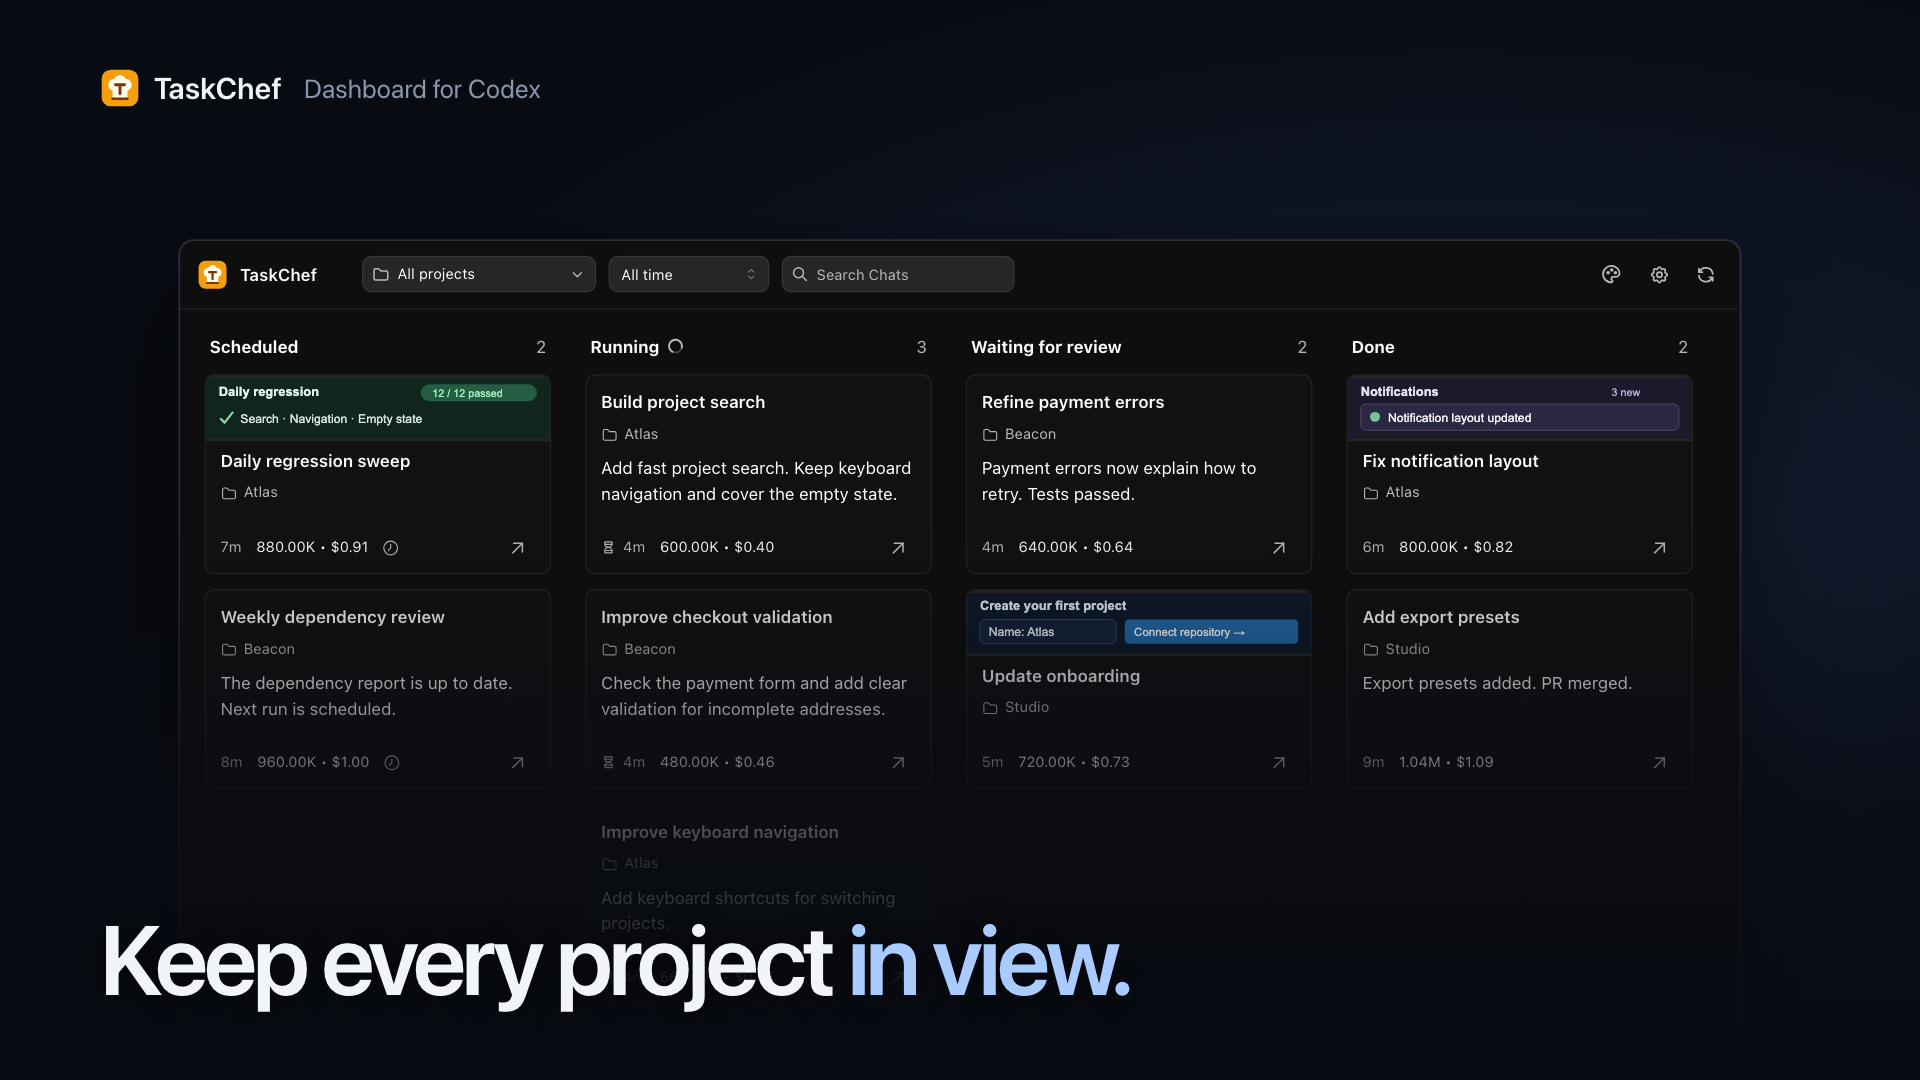
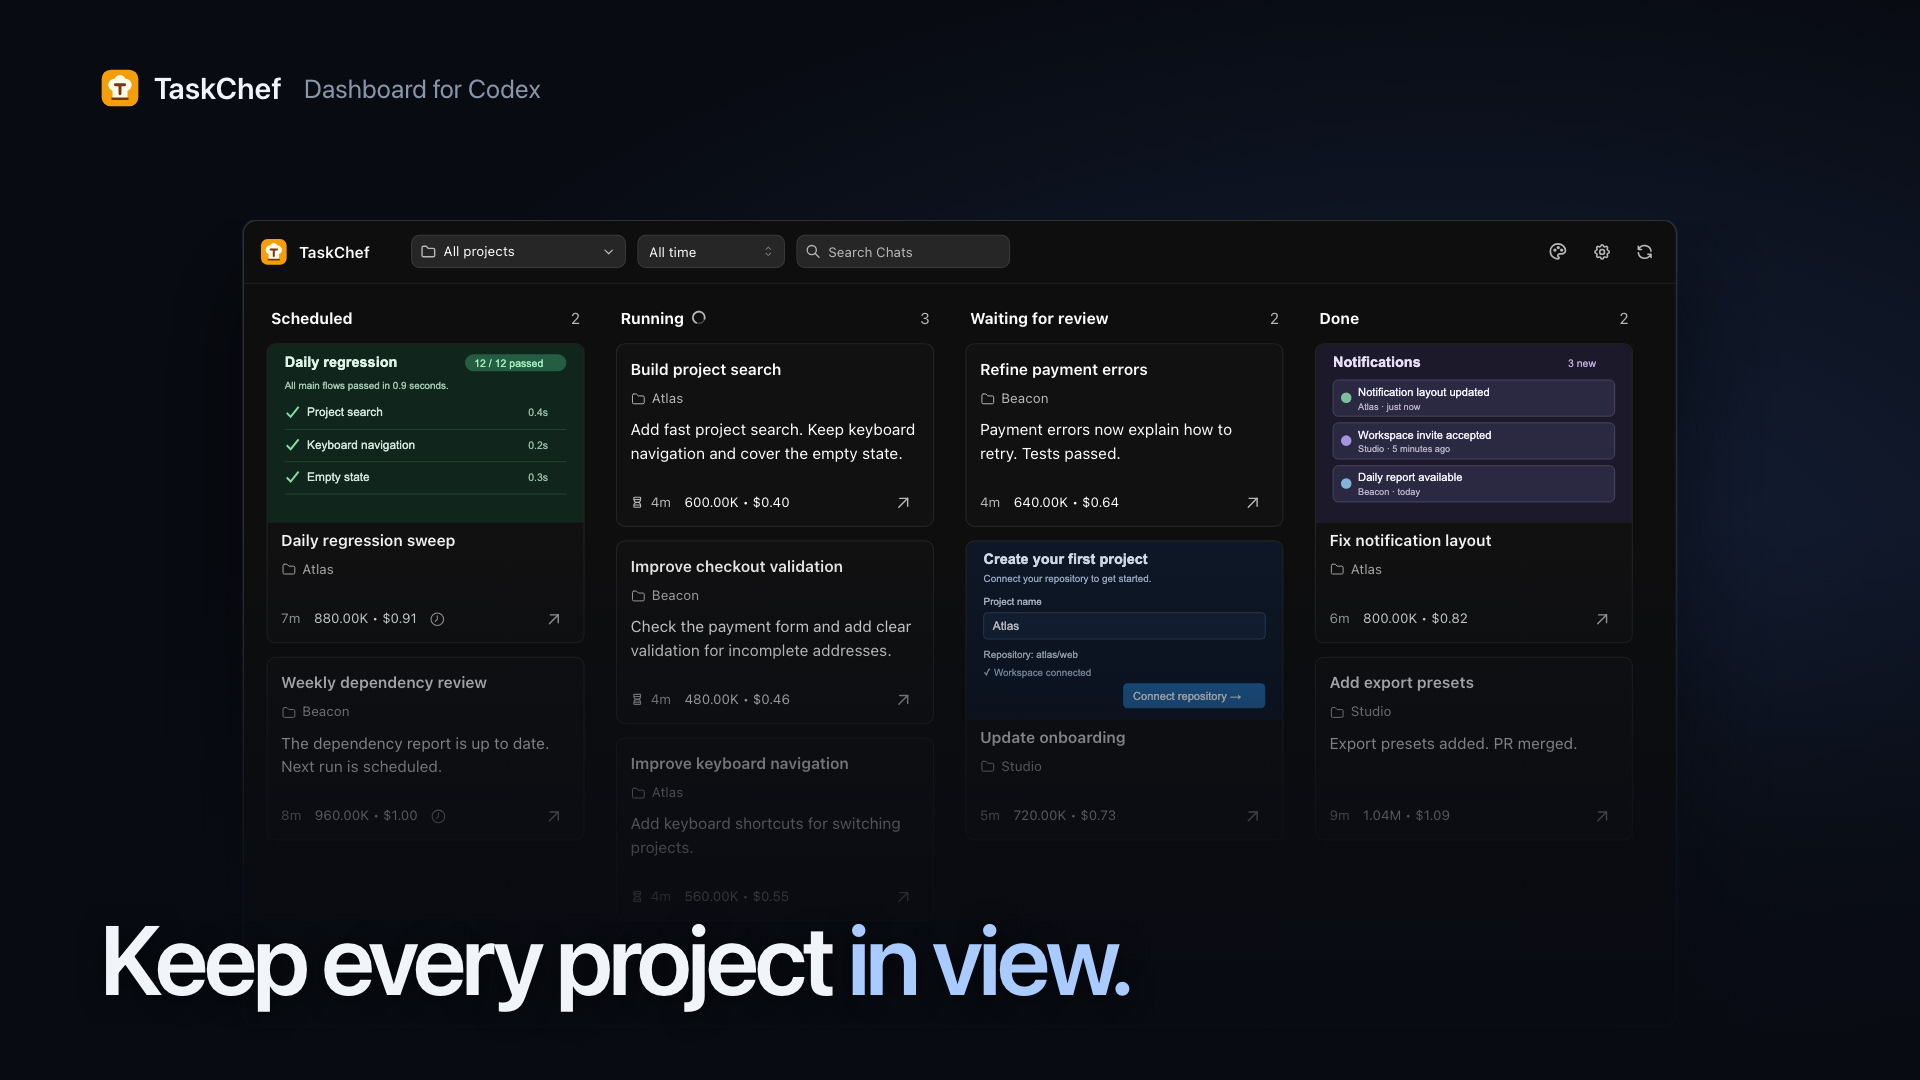
chore(video): show widescreen covers and hold final theme

diff --git a/video/Launch.tsx b/video/Launch.tsx
@@ -26,15 +26,15 @@ export function Launch() {
   const elapsed = frame / fps;
   // Cut the opening by 20 frames and the overview pause by 45 frames.
   const time = elapsed + (frame >= 115 ? 65 / 30 : 20 / 30);
-  const themeScene = frame >= 865 && frame < 1000;
+  const themeScene = frame >= 865 && frame < 1030;
   const themeTime = (frame - 865) / fps;
   const themeId = !themeScene || themeTime < 1.8 || themeTime >= 4.05 ? 'codex' : themeTime < 2.55 ? 'chatgpt' : themeTime < 3.3 ? 'catppuccin' : 'dracula';
   const appearance = 'dark';
   // One camera and one board preserve spatial continuity across chapters.
   const times = [2, 6.7, 7.6, 11.7, 12.7, 15.7, 17.1, 18.2, 19, 20.9, 22.2, 25.8, 27, 28, 28.7, 29.2, 30, 31];
-  const scales = [1.22, 1.22, 3, 3, 2.4, 2.4, 1.22, 1.22, 2.3, 2.3, 2.4, 2.4, 1.22, 1.22, 2.8, 2.8, 1.22, 1.22];
-  const xs = [179, 179, -470, -470, -575, -575, 179, 179, -1157, -1157, -1325, -1325, 179, 179, 3, 3, 179, 179];
-  const ys = [240, 240, 30, 30, 80, 80, 240, 240, -422, -422, 80, 80, 240, 240, 220, 220, 240, 240];
+  const scales = [1.12, 1.12, 3, 3, 2.4, 2.4, 1.12, 1.12, 2.3, 2.3, 2.4, 2.4, 1.12, 1.12, 2.8, 2.8, 1.12, 1.12];
+  const xs = [243, 243, -470, -470, -575, -575, 243, 243, -1157, -1157, -1325, -1325, 243, 243, 3, 3, 243, 243];
+  const ys = [220, 220, 30, 30, 80, 80, 220, 220, -505, -505, 80, 80, 220, 220, 220, 220, 220, 220];
   const pose = (values: number[]) => interpolate(time, times, values, { ...clamp, easing: ease });
   const phase = time >= 23.8 ? 'merged' : time >= 14 ? 'review' : 'running';
   const move = phase === 'review' && time < 14.7 ? interpolate(time, [14, 14.7], [0, 1], { ...clamp, easing: ease })
@@ -47,17 +47,17 @@ export function Launch() {
   const detail = time >= 18.2 && time < 20.9;
   const usageRow = time < 19.9 ? 1 : 2;
   return <AbsoluteFill className="film opening-study launch-film" style={themeVariables(visualTheme('codex', 'dark'), 'dark') as CSSProperties}>
-    <Audio name="Tech House vibes — Mixkit" src={staticFile('tech-house-vibes.mp3')} trimBefore={Math.round(1.52 * fps)} durationInFrames={1090} premountFor={fps}
-      volume={interpolate(elapsed, [0, .1, 35.1, 1090 / fps], [0, .8, .8, 0], clamp)} />
+    <Audio name="Tech House vibes — Mixkit" src={staticFile('tech-house-vibes.mp3')} trimBefore={Math.round(1.52 * fps)} durationInFrames={1120} premountFor={fps}
+      volume={interpolate(elapsed, [0, .1, 36.1, 1120 / fps], [0, .8, .8, 0], clamp)} />
     <div className="opening-halo" style={{ translate: `${Math.sin(time * .7) * 90}px ${Math.cos(time * .5) * 35}px` }} />
-    {frame >= 40 && frame < 1000 && <div className="opening-brand"><Img src={staticFile('taskchef-dark.svg')} alt="" />TaskChef <span>Dashboard for Codex</span></div>}
+    {frame >= 40 && frame < 1030 && <div className="opening-brand"><Img src={staticFile('taskchef-dark.svg')} alt="" />TaskChef <span>Dashboard for Codex</span></div>}
     <Sequence name="Product identity" from={0} durationInFrames={40} premountFor={fps}>
       <div className="opening-type"><div className="opening-identity"><div><Img src={staticFile('taskchef-dark.svg')} alt="" /><span>TaskChef</span></div><p>Dashboard for Codex</p></div></div>
-      <div className="opening-rails" style={{ rotate: '-12deg', translate: `${time * 180 - 240}px 0` }}><i /><i /><i /></div>
+      <div className="opening-rails" style={{ rotate: '-12deg', translate: `${time * 180 - 220}px 0` }}><i /><i /><i /></div>
       <FloatingChats time={elapsed} heroUsage={usage(600_000, .4)} />
     </Sequence>
-    {frame >= 40 && frame < 1000 && <div className="opening-board-mask">
-      <div className="opening-board-stage" inert style={{ left: themeScene ? interpolate(themeTime, [0, 1.5, 2, 4, 4.5], [179, 179, -160, -160, 179], { ...clamp, easing: ease }) : pose(xs), top: (themeScene ? interpolate(themeTime, [0, 1.5, 2, 4, 4.5], [240, 240, 200, 200, 240], { ...clamp, easing: ease }) : pose(ys)) - 220, scale: themeScene ? interpolate(themeTime, [0, 1.5, 2, 4, 4.5], [1.22, 1.22, 1.6, 1.6, 1.22], { ...clamp, easing: ease }) : pose(scales) }}>
+    {frame >= 40 && frame < 1030 && <div className="opening-board-mask">
+      <div className="opening-board-stage" inert style={{ left: themeScene ? interpolate(themeTime, [0, 1.5, 2, 5, 5.5], [243, 243, -160, -160, 243], { ...clamp, easing: ease }) : pose(xs), top: (themeScene ? interpolate(themeTime, [0, 1.5, 2, 5, 5.5], [220, 220, 200, 200, 220], { ...clamp, easing: ease }) : pose(ys)) - 220, scale: themeScene ? interpolate(themeTime, [0, 1.5, 2, 5, 5.5], [1.12, 1.12, 1.6, 1.6, 1.12], { ...clamp, easing: ease }) : pose(scales) }}>
         <ProductBoard themeId={themeId} appearance={appearance} showThemePanel={themeScene} phase={phase} moveProgress={move} project={selected ? 'atlas' : ''} heroUsage={phase === 'running' ? liveUsage : undefined} filterProgress={selected ? filter : undefined} highlightProject={time >= 28 && time < 29.3}>
           <style>{`.launch-film .film-product .mantine-Modal-content { max-height: 505px; }
             .launch-film .taskchef-detail-usage tbody tr:nth-child(${usageRow}) { background: #8cc9ff20; }
@@ -73,7 +73,7 @@ export function Launch() {
     <Sequence name="Merged PR moves to Done" from={565} durationInFrames={2.5 * fps} premountFor={fps}><ChapterTitle>Merged. <span>Done.</span></ChapterTitle></Sequence>
     <Sequence name="Project filtering" from={715} durationInFrames={2.5 * fps} premountFor={fps}><ChapterTitle>Focus on <span>one project.</span></ChapterTitle></Sequence>
     <Sequence name="Theme switching" from={865} durationInFrames={2.5 * fps} premountFor={fps}><ChapterTitle>Choose <span>your theme.</span></ChapterTitle></Sequence>
-    <Sequence name="TaskChef closing" from={1000} durationInFrames={3 * fps} premountFor={fps}>
+    <Sequence name="TaskChef closing" from={1030} durationInFrames={3 * fps} premountFor={fps}>
       <AbsoluteFill className="film film-closing"><div className="film-glow" /><div><Img src={staticFile('taskchef-dark.svg')} alt="" /><h1>TaskChef</h1><p>Dashboard for Codex</p><div className="film-url">taskchef.dev</div></div></AbsoluteFill>
     </Sequence>
   </AbsoluteFill>;

diff --git a/video/film.css b/video/film.css
@@ -68,5 +68,9 @@
 .opening-fragment-3 .taskchef-board-card:not([data-chat-id="00000000-0000-7000-8000-000000000003"]) { display: none; }
 
 .film-product .taskchef-board-card:has(.taskchef-reply-cover) .taskchef-turn-card { display: none; }
-.film-product .taskchef-reply-cover { height: 54px; margin-bottom: 6px; background: var(--taskchef-surface-muted); }
+.film-product .taskchef-reply-cover { height: auto; aspect-ratio: 16 / 9; margin-bottom: 6px; background: var(--taskchef-surface-muted); }
 .film-product .taskchef-reply-cover img { object-fit: contain; }
+
+.launch-film .film-product { height: 720px; }
+.launch-film .film-product .taskchef-app-shell { min-height: 718px; }
+.film-product .taskchef-board-card:has(.taskchef-reply-cover) { height: 268px; min-height: 268px; }

diff --git a/video/index.tsx b/video/index.tsx
@@ -20,7 +20,7 @@ for (const [key, value] of Object.entries(themeVariables(visualTheme('codex', 'd
 }
 
 registerRoot(() => <>
-  <Composition id="TaskChefLaunch" component={Launch} durationInFrames={1090} fps={30} width={1920} height={1080} />
+  <Composition id="TaskChefLaunch" component={Launch} durationInFrames={1120} fps={30} width={1920} height={1080} />
   <Folder name="Drafts">
     <Composition id="TaskChefOpening" component={OpeningStudy} durationInFrames={336} fps={30} width={1920} height={1080} />
     <Composition id="ParallelProjects" component={Opening} durationInFrames={180} fps={30} width={1920} height={1080} />

diff --git a/docs/launch/video-script.md b/docs/launch/video-script.md
@@ -1,6 +1,6 @@
 # TaskChef launch video — final script
 
-**Length:** 36⅓ seconds. **Format:** 1920 × 1080, 30 fps.
+**Length:** 37⅓ seconds. **Format:** 1920 × 1080, 30 fps.
 **Positioning:** Dashboard for Codex. Keep every project in view.
 
 The film uses the actual TaskChef React components, controls, mark and Codex
@@ -10,14 +10,14 @@ there is no narration or screen recording.
 | Time | Title | Picture and action |
 | --- | --- | --- |
 | 0–1.33s | TaskChef · Dashboard for Codex | Logo, name, descriptor and native cards visible from frame zero. Cards move gently beside the identity. |
-| 1.33–3.83s | Keep every project in view. | Large title overlays the full board, then fades to reveal it. Scheduled, Running, Waiting for review and Done remain visible with nine chats and three synthetic image covers. No Running close-up in this chapter. |
+| 1.33–3.83s | Keep every project in view. | Large title overlays the full board, then fades to reveal it. Scheduled, Running, Waiting for review and Done remain visible with nine chats and three synthetic 16:9 image covers. No Running close-up in this chapter. |
 | 3.83–8.83s | See what’s running. | Move into Running. Follow Build project search as latest-turn tokens rise from 600K to 1.24M and estimated API-equivalent cost rises from $0.40 to $0.86. |
 | 8.83–13.83s | Ready for your review. | The chat finishes. Follow the same card into Waiting for review while neighboring cards make room. Its prompt becomes its result. |
 | 13.83–18.83s | Usage, turn by turn. | Open the native Details popup. Highlight Latest turn (1.24M · $0.86), then Total chat (5.32M · $3.72). Keep the native API estimate note visible. |
 | 18.83–23.83s | Merged. Done. | Latest-turn PR #42 changes from open to merged. Its native link, result text and glyph update as the card moves into Done. |
 | 23.83–28.83s | Focus on one project. | Highlight the real project picker. Change All projects to Atlas. Other projects fade out and matching cards reposition. Scheduled remains visible. |
-| 28.83–33.33s | Choose your theme. | Show the native appearance controls. Switch ChatGPT Night → Catppuccin Night → Dracula Night → Codex Night, then return to the full board. |
-| 33.33–36.33s | TaskChef · Dashboard for Codex | Logo, identity and taskchef.dev. Music fades to the ending. |
+| 28.83–34.33s | Choose your theme. | Show the native appearance controls. Switch ChatGPT Night → Catppuccin Night → Dracula Night → Codex Night, hold Codex Night for about 1.45 seconds, then close. |
+| 34.33–37.33s | TaskChef · Dashboard for Codex | Logo, identity and taskchef.dev. Music fades to the ending. |
 
 The opening holds for 1⅓ seconds. The overview moves straight into Running
 after its title fades, without an idle hold.
@@ -39,7 +39,7 @@ npm run video:preview
 ```
 
 Open `http://localhost:8090/TaskChefLaunch` and press Play with sound enabled.
-The full composition is 1,090 frames. Studio exposes each chapter title as a
+The full composition is 1,120 frames. Studio exposes each chapter title as a
 named timeline item. The Drafts folder retains earlier scene studies; those
 are not the current full cut.
 
@@ -53,7 +53,7 @@ Key review points at 30 fps:
 - Frames 649–670: PR merged → Done.
 - Frames 782–811: project selection, fading and repositioning.
 - Frames 945 and 970: dark theme switches.
-- Frame 1040: ending.
+- Frame 1070: ending.
 
 The shared camera and board preserve spatial continuity. `ProductBoard` reuses
 `TaskBoard`, `ProjectPicker`, Mantine controls, native theme and production CSS;

diff --git a/docs/launch/opening-study.md b/docs/launch/opening-study.md
@@ -10,7 +10,7 @@ npm run video:preview
 ```
 
 Open `http://localhost:8090/TaskChefOpening` and press Play with sound on.
-Use `TaskChefLaunch` to review the current 36⅓-second full film.
+Use `TaskChefLaunch` to review the current 37⅓-second full film.
 
 When an export is requested, `npm --prefix video run render:opening` exports
 this opening to `video/out/taskchef-opening.mp4`. `npm run video:render`
